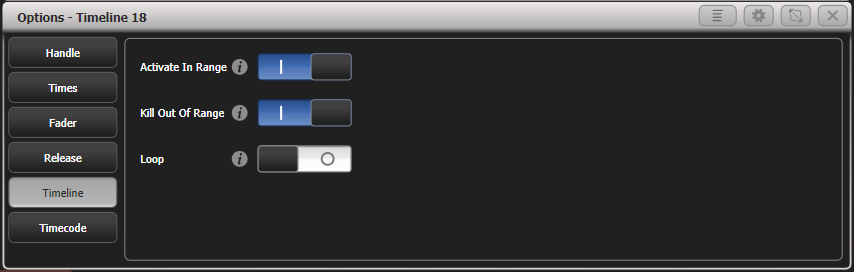
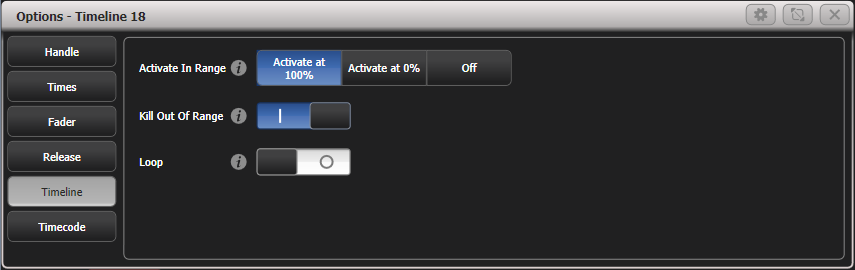
Update Activate In Range option

Changed region(s): [[0.0, 0.0, 1.0, 1.0], [0.2436, 0.5333, 0.4262, 0.6519], [0.0609, 0.2963, 0.0913, 0.3556]]

diff --git a/docs/timelines/running-and-editing-timelines.md b/docs/timelines/running-and-editing-timelines.md
@@ -8,7 +8,7 @@ sidebar_label: Running and Editing Timelines
 Running a timeline to timecode
 ------------------
 
-The HTP (intensity) of fixtures in the timeline is controlled by the fader level of the handle. The console will automatically fire the timeline playback to full when timecode is received within the range of the timeline settings (you can turn this off using the option [Activate in Range](../timelines/timeline-options.md#timecode-tab)).
+The HTP (intensity) of fixtures in the timeline is controlled by the fader level of the handle. The console will automatically fire the timeline playback to full when timecode is received within the range of the timeline settings (you can turn this off, or set the timeline to fire at zero intensity setting only LTP attributes, using the option [Activate in Range](../timelines/timeline-options.md#timecode-tab)).
 
 1.  Ensure the **timecode link** button (bottom left of the timeline view) is set to **Linked**.
 

diff --git a/docs/timelines/timeline-options.md b/docs/timelines/timeline-options.md
@@ -66,7 +66,7 @@ Timeline-Global Release Time | Sets the Global Release Time for playbacks trigge
 
 Option              | Action
 ---|-----
-Activate In Range | Off: Timeline must be fired manually. <br>**On:** Timeline will be fired automatically when timecode comes within the Start/End time range.
+Activate In Range | **Activate at 100%**: Timeline will be fired automatically at 100% level when timecode comes within the Start/End time range.<br>Activate at 0%: Will be fired automatically but at 0% level (zero intensity)<br>Off: Timeline will not be activated until the manually fired.
 Kill Out Of Range | Off: Timeline will remain active when the timecode goes outside the Start/End time range. <br>**On:** Timeline will be killed when the timecode goes outside the Start/End time range.
 Loop | **Off**: Internal timecode source does not loop when it reaches End Time<br>On: Internal timecode source will loop back to Start Time when it reaches End Time.
 
